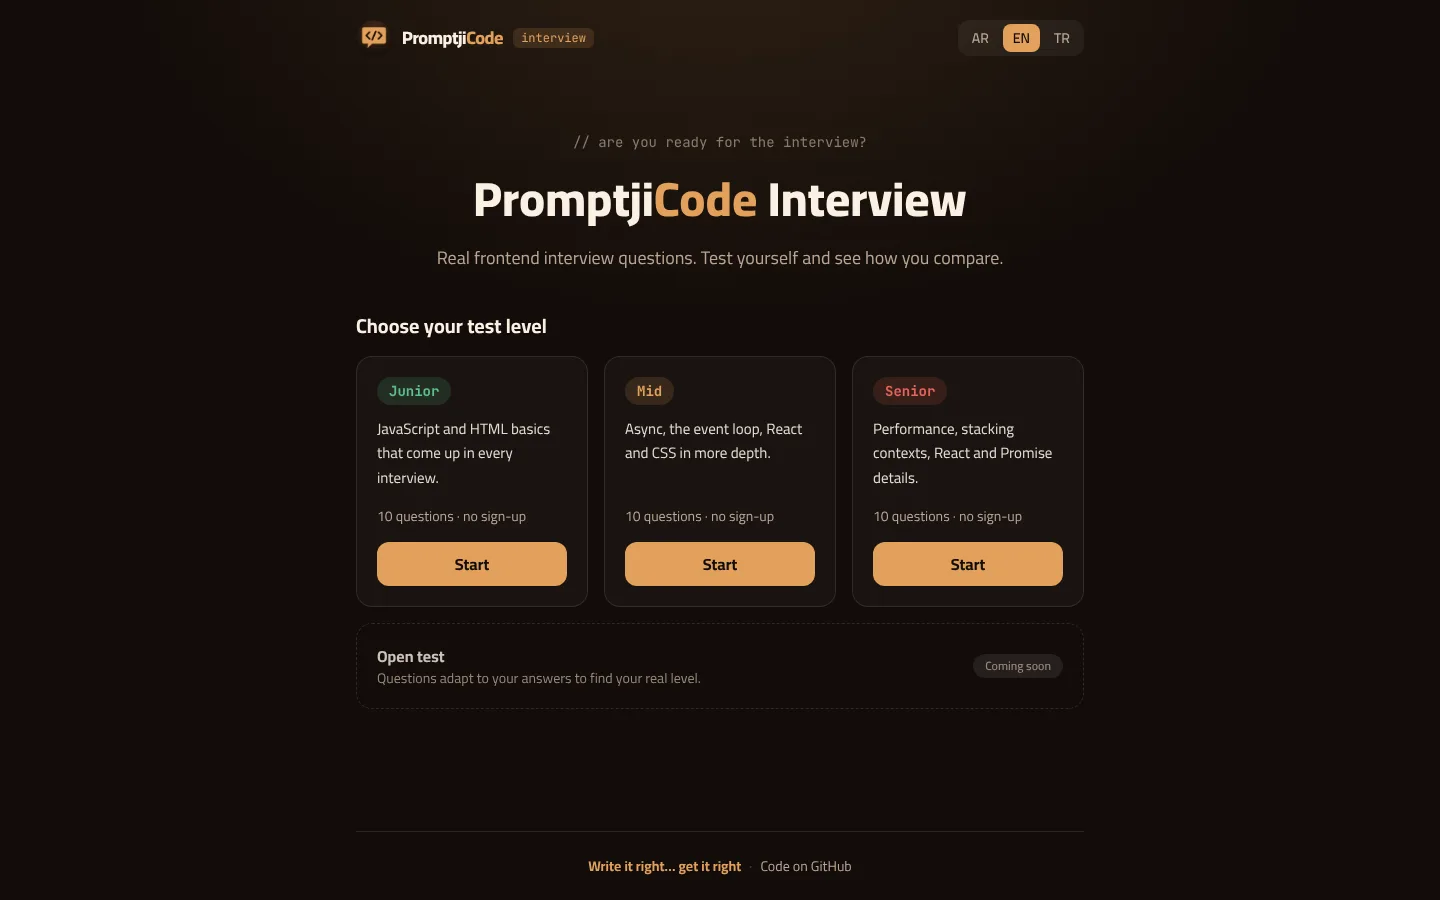
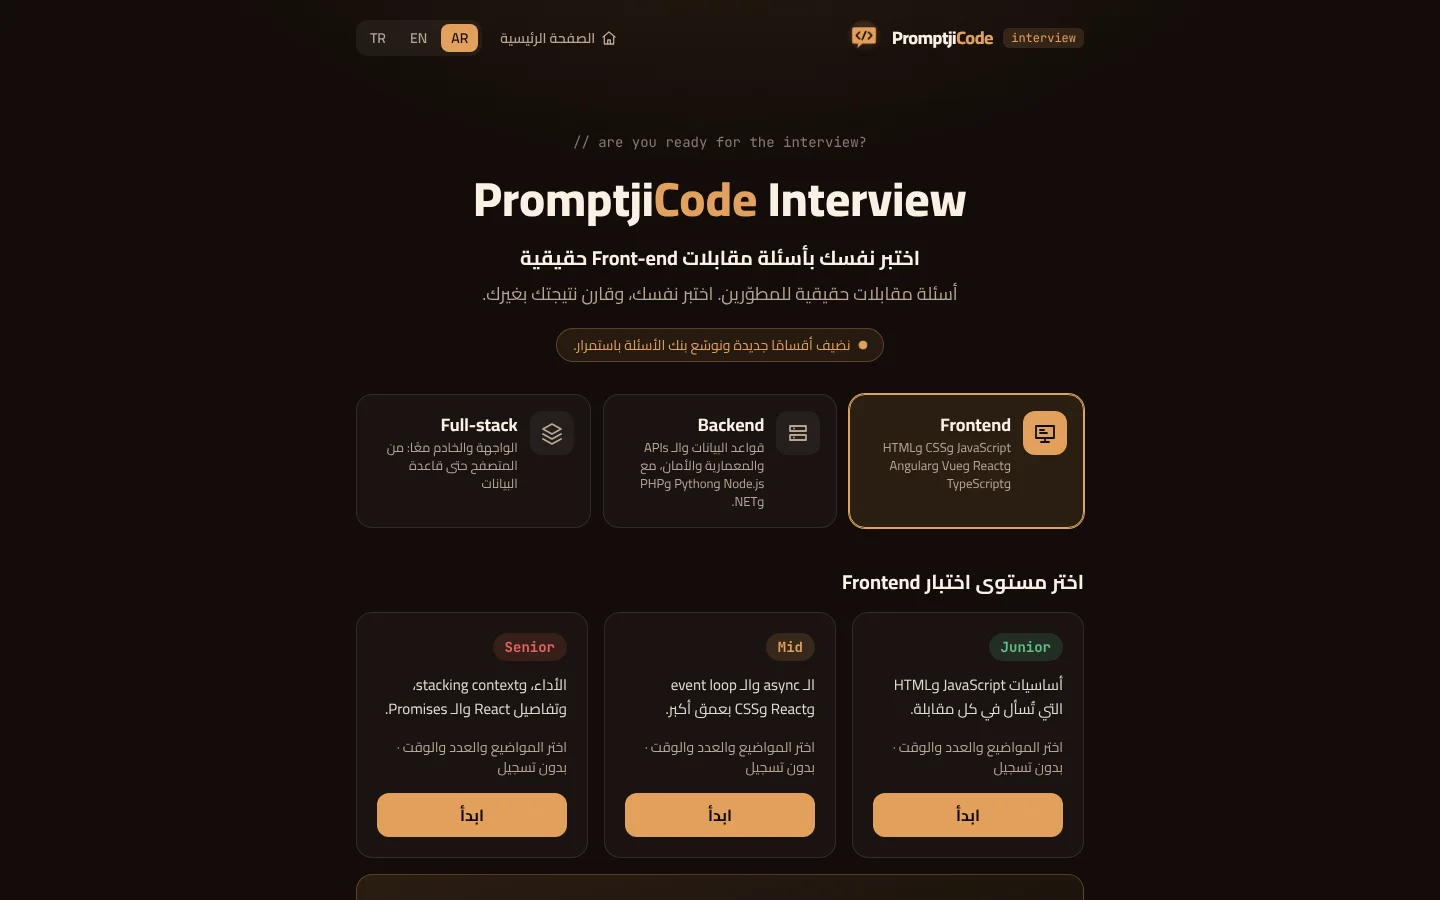
Add photo, visit tracking and the new interview content
- Profile photo next to the name
- Visit and click tracking (email, WhatsApp, services, profiles) sent to the interview site's dashboard
- PromptjiCode Interview described with its three tracks and backend topics; new screenshot
- Channel page: interview section covers Frontend, Backend and Full-stack

diff --git a/app/data/portfolio.ts b/app/data/portfolio.ts
@@ -125,12 +125,12 @@ export const PROJECTS: Project[] = [
     id: 'promptjicode',
     name: { ar: 'PromptjiCode Interview', en: 'PromptjiCode Interview', tr: 'PromptjiCode Interview' },
     kind: {
-      ar: 'منصة تدريب على مقابلات الواجهات الأمامية · مشروعي الخاص',
-      en: 'Frontend interview practice platform · my own product',
-      tr: 'Frontend mülakat pratik platformu · kendi ürünüm',
+      ar: 'منصة تدريب على مقابلات المطوّرين: Frontend وBackend وFull-stack · مشروعي الخاص',
+      en: 'Developer interview practice: Frontend, Backend and Full-stack · my own product',
+      tr: 'Geliştirici mülakat pratiği: Frontend, Backend ve Full-stack · kendi ürünüm',
     },
     kpiValue: '3',
-    kpiLabel: { ar: 'لغات مع دعم كامل للعربي (RTL)', en: 'languages, with full Arabic RTL', tr: 'dil, tam Arapça RTL desteğiyle' },
+    kpiLabel: { ar: 'مسارات · 19 موضوعًا · 3 لغات', en: 'tracks · 19 topics · 3 languages', tr: 'alan · 19 konu · 3 dil' },
     tags: ['Nuxt 4', 'TypeScript', 'Tailwind CSS', 'Cloudflare Workers', 'Cloudflare D1', 'i18n / RTL'],
     url: 'https://interview.promptjicode.com',
     urlLabel: 'interview.promptjicode.com',
@@ -139,25 +139,28 @@ export const PROJECTS: Project[] = [
     extraLink: { url: 'https://github.com/yaman-mando/promptjicode-interview', label: { ar: 'الكود على GitHub', en: 'Code on GitHub', tr: 'Kod GitHub’da' } },
     points: {
       ar: [
-        'منصة اختبارات لمقابلات الواجهات الأمامية بثلاث لغات: العربية (RTL) والإنجليزية والتركية، بمستويات Junior وMid وSenior، واختبار مخصص حسب المواضيع مع مؤقت، واختبار مفتوح يتكيّف مع الإجابات ليقدّر مستوى المستخدم.',
-        'التصحيح يتم على الخادم برمز موقّع، فلا تصل الإجابات إلى المتصفح، وتُحفظ النتائج والنِّسب المئوية في Cloudflare D1.',
-        'أداة فحص تشغّل كل كود JavaScript في بنك الأسئلة وتتأكد أن الإجابة المعتمدة هي الناتج الحقيقي.',
-        'لوحة تحكم للمشرف فيها إحصاءات الاستخدام وصعوبة كل سؤال.',
-        'تعمل على Cloudflare Workers مع نشر تلقائي من GitHub، ومبنية على محتوى قناتي التعليمية PromptjiCode.',
+        'منصة اختبارات لمقابلات العمل بثلاثة مسارات (Frontend وBackend وFull-stack) وثلاث لغات: العربية (RTL) والإنجليزية والتركية. تغطي JavaScript وReact وVue وAngular وTypeScript، وفي الباك اند SQL والـ APIs والمعمارية والأمان مع Node.js وPython وPHP/Laravel وC#/.NET.',
+        'لكل مسار مستويات Junior وMid وSenior، واختبار مخصص حسب المواضيع أو لغة البرمجة مع مؤقت، واختبار مفتوح يتكيّف مع الإجابات ليقدّر مستوى المستخدم.',
+        'التصحيح على الخادم برمز موقّع وخيارات مخلوطة لكل اختبار، فلا تصل الإجابات إلى المتصفح، وتُحفظ النتائج والنِّسب المئوية في Cloudflare D1.',
+        'صفحة نتيجة فيها صورة مشاركة تُرسم في المتصفح، وطباعة مع مراجعة كاملة، وزر للإبلاغ عن الأخطاء مع فلتر للكلمات غير اللائقة.',
+        'أداة فحص تشغّل كود JavaScript وPython وPHP في بنك الأسئلة وتتأكد أن الإجابة المعتمدة هي الناتج الحقيقي.',
+        'لوحة تحكم فيها إحصاءات الاختبارات والزوار (الدول والأجهزة والمصادر) وصعوبة كل سؤال والبلاغات، وتعمل على Cloudflare Workers مع نشر تلقائي من GitHub.',
       ],
       en: [
-        'A frontend interview practice platform in Arabic (RTL), English and Turkish: Junior, Mid and Senior tests, custom tests by topic with a timer, and an adaptive open test that estimates the user’s level.',
-        'Grading runs on the server with signed tokens, so answers never reach the browser; results and percentiles are stored in Cloudflare D1.',
-        'A verifier runs every JavaScript snippet in the question bank and checks that the marked answer is the real output.',
-        'An admin dashboard with usage stats and per-question difficulty.',
-        'Runs on Cloudflare Workers with automatic deploys from GitHub, and grows out of my educational channel PromptjiCode.',
+        'An interview practice platform with three tracks (Frontend, Backend, Full-stack) in Arabic (RTL), English and Turkish. It covers JavaScript, React, Vue, Angular and TypeScript, and on the backend SQL, APIs, architecture and security with Node.js, Python, PHP/Laravel and C#/.NET.',
+        'Each track has Junior, Mid and Senior tests, custom tests by topic or language with a timer, and an adaptive open test that estimates the user’s level.',
+        'Grading runs on the server with signed tokens and per-test shuffled options, so answers never reach the browser; results and percentiles are stored in Cloudflare D1.',
+        'A result page with a share image drawn in the browser, printing with a full review, and a report-a-mistake button with a bad-word filter.',
+        'A verifier runs the JavaScript, Python and PHP code in the question bank and checks that the marked answer is the real output.',
+        'An admin dashboard with test and visitor stats (countries, devices, sources), per-question difficulty and reports, running on Cloudflare Workers with automatic deploys from GitHub.',
       ],
       tr: [
-        'Arapça (RTL), İngilizce ve Türkçe frontend mülakat pratik platformu: Junior, Mid ve Senior testleri, konuya göre zamanlı özel testler ve kullanıcının seviyesini tahmin eden uyarlanabilir açık test.',
-        'Değerlendirme imzalı token’larla sunucuda yapılır, cevaplar tarayıcıya hiç ulaşmaz; sonuçlar ve yüzdelikler Cloudflare D1’de saklanır.',
-        'Soru bankasındaki her JavaScript kodunu çalıştırıp işaretli cevabın gerçek çıktı olduğunu doğrulayan bir araç.',
-        'Kullanım istatistikleri ve soru başına zorluk gösteren bir yönetim paneli.',
-        'GitHub’dan otomatik dağıtımla Cloudflare Workers üzerinde çalışır; eğitim kanalım PromptjiCode’dan doğdu.',
+        'Arapça (RTL), İngilizce ve Türkçe, üç alanlı (Frontend, Backend, Full-stack) bir mülakat pratik platformu. JavaScript, React, Vue, Angular ve TypeScript’i; backend’de ise Node.js, Python, PHP/Laravel ve C#/.NET ile SQL, API’ler, mimari ve güvenliği kapsar.',
+        'Her alanda Junior, Mid ve Senior testleri, konuya veya dile göre zamanlı özel testler ve kullanıcının seviyesini tahmin eden uyarlanabilir açık test var.',
+        'Değerlendirme imzalı token’larla ve her testte karıştırılan seçeneklerle sunucuda yapılır, cevaplar tarayıcıya hiç ulaşmaz; sonuçlar ve yüzdelikler Cloudflare D1’de saklanır.',
+        'Tarayıcıda çizilen paylaşım görseli, tam incelemeyle yazdırma ve uygunsuz kelime filtresi olan bir hata bildirme butonu içeren sonuç sayfası.',
+        'Soru bankasındaki JavaScript, Python ve PHP kodunu çalıştırıp işaretli cevabın gerçek çıktı olduğunu doğrulayan bir araç.',
+        'Test ve ziyaretçi istatistikleri (ülkeler, cihazlar, kaynaklar), soru başına zorluk ve bildirimler içeren bir yönetim paneli; GitHub’dan otomatik dağıtımla Cloudflare Workers üzerinde çalışır.',
       ],
     },
   },

diff --git a/app/pages/yaman.vue b/app/pages/yaman.vue
@@ -97,7 +97,10 @@ useSeoMeta({
     <div class="hero-bg relative overflow-hidden">
       <section id="top" class="mx-auto grid max-w-5xl items-center gap-12 px-5 pt-16 pb-16 md:grid-cols-[1.25fr_1fr] md:pt-24 md:pb-20">
         <div class="hero-in flex flex-col gap-6">
-          <h1 class="text-5xl font-extrabold tracking-tight sm:text-6xl">{{ PERSON.name[loc] }}</h1>
+          <div class="flex items-center gap-5">
+            <img src="/img/yaman.webp" :alt="PERSON.name[loc]" width="220" height="220" class="size-20 shrink-0 rounded-full object-cover shadow-[0_10px_30px_-10px_rgba(29,22,17,.45)] ring-4 ring-white sm:size-24">
+            <h1 class="text-5xl font-extrabold tracking-tight sm:text-6xl">{{ PERSON.name[loc] }}</h1>
+          </div>
           <p class="max-w-[40ch] text-xl leading-relaxed text-muted sm:text-[22px]">
             <b class="font-semibold text-text">{{ PERSON.roleStrong[loc] }}.</b>
             {{ ' ' }}<BidiText plain :text="PERSON.role[loc]" />
@@ -165,7 +168,7 @@ useSeoMeta({
                 <BidiText plain :text="pt" />
               </li>
             </ul>
-            <a :href="mailto(sv.title[loc])" class="mt-auto inline-flex w-fit items-center gap-1.5 pt-2 text-sm font-bold text-caramel-dark hover:underline">
+            <a :href="mailto(sv.title[loc])" :data-track="`service:${sv.id}`" class="mt-auto inline-flex w-fit items-center gap-1.5 pt-2 text-sm font-bold text-caramel-dark hover:underline">
               {{ t('portfolio.serviceCta') }}
               <svg viewBox="0 0 24 24" class="size-4 transition group-hover:translate-x-0.5 rtl:-scale-x-100 rtl:group-hover:-translate-x-0.5" fill="none" stroke="currentColor" stroke-width="2.4" stroke-linecap="round" stroke-linejoin="round" aria-hidden="true"><path d="M5 12h14m-6-6 6 6-6 6" /></svg>
             </a>
@@ -179,7 +182,7 @@ useSeoMeta({
             <h3 class="text-2xl font-bold">{{ t('portfolio.bannerH') }}</h3>
             <p class="mt-1.5 text-cream/80">{{ t('portfolio.bannerP') }}</p>
           </div>
-          <a :href="mailto(t('portfolio.bannerH'))" class="relative mt-5 inline-flex h-12 shrink-0 items-center gap-2 rounded-xl bg-caramel px-6 font-bold text-ink transition hover:brightness-110 md:mt-0">
+          <a :href="mailto(t('portfolio.bannerH'))" data-track="banner" class="relative mt-5 inline-flex h-12 shrink-0 items-center gap-2 rounded-xl bg-caramel px-6 font-bold text-ink transition hover:brightness-110 md:mt-0">
             <svg viewBox="0 0 24 24" class="size-5" fill="none" stroke="currentColor" stroke-width="2" stroke-linecap="round" stroke-linejoin="round" aria-hidden="true"><rect x="3" y="5" width="18" height="14" rx="2" /><path d="m3 7 9 6 9-6" /></svg>
             {{ t('portfolio.emailMe') }}
           </a>
@@ -318,8 +321,8 @@ useSeoMeta({
             <svg viewBox="0 0 24 24" class="size-4" fill="none" stroke="currentColor" stroke-width="2" stroke-linecap="round" stroke-linejoin="round" aria-hidden="true"><rect x="3" y="5" width="18" height="14" rx="2" /><path d="m3 7 9 6 9-6" /></svg>
             {{ PERSON.email }}
           </a>
-          <button type="button" class="btn-light" @click="copy(PERSON.email)">{{ t('portfolio.copyEmail') }}</button>
-          <button type="button" class="btn-light" @click="copy(PERSON.phone)">{{ PERSON.phone }}</button>
+          <button type="button" class="btn-light" data-track="copyEmail" @click="copy(PERSON.email)">{{ t('portfolio.copyEmail') }}</button>
+          <button type="button" class="btn-light" data-track="phone" @click="copy(PERSON.phone)">{{ PERSON.phone }}</button>
           <a :href="PERSON.whatsapp" target="_blank" rel="noopener" class="btn-light">WhatsApp</a>
         </div>
         <span class="min-h-5 text-sm text-caramel-dark" aria-live="polite">{{ toast }}</span>

diff --git a/app/plugins/analytics.client.ts b/app/plugins/analytics.client.ts
@@ -1,0 +1,61 @@
+/**
+ * Visit tracking for promptjicode.com (channel page and /yaman).
+ * Events go to the interview site's collector, tagged site: 'main', and show up in its admin
+ * dashboard (Visitors → Main site / My page). No IPs or personal data are stored.
+ * Off in local development.
+ */
+const ENDPOINT = 'https://interview.promptjicode.com/api/track'
+
+export default defineNuxtPlugin((nuxtApp) => {
+  if (import.meta.dev) return { provide: { track: () => {} } }
+
+  const IDLE = 30 * 60_000
+  const id = () => (crypto.randomUUID?.() ?? `${Date.now()}-${Math.random()}`).replace(/[^\w-]/g, '')
+  const get = (s: Storage, k: string) => { try { return s.getItem(k) } catch { return null } }
+  const set = (s: Storage, k: string, v: string) => { try { s.setItem(k, v) } catch { /* private mode */ } }
+
+  let isNew = false
+  let vid = get(localStorage, 'pc_vid')
+  if (!vid) { vid = id(); isNew = true; set(localStorage, 'pc_vid', vid) }
+  let sid = get(sessionStorage, 'pc_sid')
+  if (!sid || Date.now() - Number(get(sessionStorage, 'pc_last') ?? 0) > IDLE) { sid = id(); set(sessionStorage, 'pc_sid', sid) }
+
+  const utm = new URLSearchParams(location.search).get('utm_source')
+  const ref = document.referrer || null
+
+  function track(type: string, data: Record<string, unknown> = {}) {
+    set(sessionStorage, 'pc_last', String(Date.now()))
+    const body = JSON.stringify({
+      site: 'main', type, sid, vid, isNew, ref, utm,
+      path: location.pathname,
+      locale: (nuxtApp.$i18n as { locale: { value: string } }).locale.value,
+      ...data,
+    })
+    // sendBeacon survives page unloads (e.g. a click that opens the mail app)
+    if (navigator.sendBeacon?.(ENDPOINT, body)) return
+    fetch(ENDPOINT, { method: 'POST', body, keepalive: true, mode: 'no-cors', credentials: 'include' }).catch(() => {})
+  }
+
+  nuxtApp.hook('page:finish', () => track('pageview'))
+  setInterval(() => { if (document.visibilityState === 'visible') track('heartbeat') }, 30_000)
+
+  // Clicks worth knowing about: contact, services, profiles, projects
+  document.addEventListener('click', (e) => {
+    const el = (e.target as HTMLElement | null)?.closest<HTMLElement>('[data-track], a[href]')
+    if (!el) return
+    let label = el.dataset.track ?? ''
+    if (!label && el instanceof HTMLAnchorElement) {
+      const href = el.href
+      if (href.startsWith('mailto:')) label = 'email'
+      else if (/wa\.me|whatsapp/.test(href)) label = 'whatsapp'
+      else if (/linkedin\.com/.test(href)) label = 'linkedin'
+      else if (/github\.com/.test(href)) label = 'github'
+      else if (/interview\.promptjicode\.com/.test(href)) label = 'interview'
+      else if (/instagram|tiktok|youtube|facebook/.test(href)) label = `social:${new URL(href).hostname.replace(/^www\./, '').split('.')[0]}`
+      else if (el.host && el.host !== location.host) label = `project:${el.host.replace(/^www\./, '')}`
+    }
+    if (label) track('click', { label })
+  }, { capture: true })
+
+  return { provide: { track } }
+})

diff --git a/app/pages/index.vue b/app/pages/index.vue
@@ -141,7 +141,7 @@ useSeoMeta({
             </a>
           </div>
           <dl class="grid grid-cols-3 gap-3 text-center md:grid-cols-1">
-            <div v-for="st in [{ v: '10', l: t('channel.toolsStat1') }, { v: '3', l: t('channel.toolsStat2') }, { v: '3', l: t('channel.toolsStat3') }]" :key="st.l" class="rounded-2xl bg-ink/60 px-5 py-3">
+            <div v-for="st in [{ v: '3', l: t('channel.toolsStatTracks') }, { v: '19', l: t('channel.toolsStat1') }, { v: '3', l: t('channel.toolsStat3') }]" :key="st.l" class="rounded-2xl bg-ink/60 px-5 py-3">
               <dt class="sr-only">{{ st.l }}</dt>
               <dd><span class="block font-mono text-3xl font-bold text-caramel">{{ st.v }}</span><span class="text-sm text-sand">{{ st.l }}</span></dd>
             </div>
